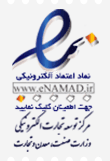
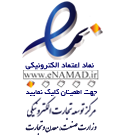
enamad fix

diff --git a/public_html/static/css/style.css b/public_html/static/css/style.css
@@ -671,9 +671,10 @@ footer #footer-links #footer-news article:hover{border-right-color:#e5a428}
 footer #footer-links #footer-news p{font-size:.8em;margin-bottom:0;color:#777}
 /*footer #footer-links .enamad img{display:none}*/
 
-footer #footer-links #footer-enamad{}
-footer #footer-links #footer-enamad a{display:block}
-footer #footer-links #footer-enamad img{width:80px}
+footer #footer-links #footer-enamad a{display:block;max-width:90px}
+footer #footer-links #footer-enamad img{display:block;max-width:100%;background-color:#eaeae9;padding:0.5em 0}
+footer #footer-links #footer-enamad div{height:4px;background-image:url(../images/svg/footer/enamad.svg);background-repeat:repeat-x}
+footer #footer-links #footer-enamad div:last-of-type{-webkit-transform:rotate(180deg);transform:rotate(180deg)}
 
 /* footer-note*/
 footer{margin-top:-2px}

diff --git a/content/template/footer.html b/content/template/footer.html
@@ -15,8 +15,9 @@
 {%if site.currentlang =='fa'%}
     <nav class="c" id="footer-enamad">
      <a href="#">
-      <!-- <img src="{{url.static}}images/enamad.png" alt='{%trans "Enamad"%}'> -->
+      <div></div>
       <img src="{{url.static}}images/enamad1.png" alt='{%trans "Enamad"%}' onclick='window.open("https://trustseal.enamad.ir/Verify.aspx?id=56701&p=yncrhwmbqgwldrfsnbpd", "Popup","toolbar=no, location=no, statusbar=no, menubar=no, scrollbars=1, resizable=0, width=580, height=600, top=30")'>
+      <div></div>
      </a>
     </nav>
 {%endif%}
